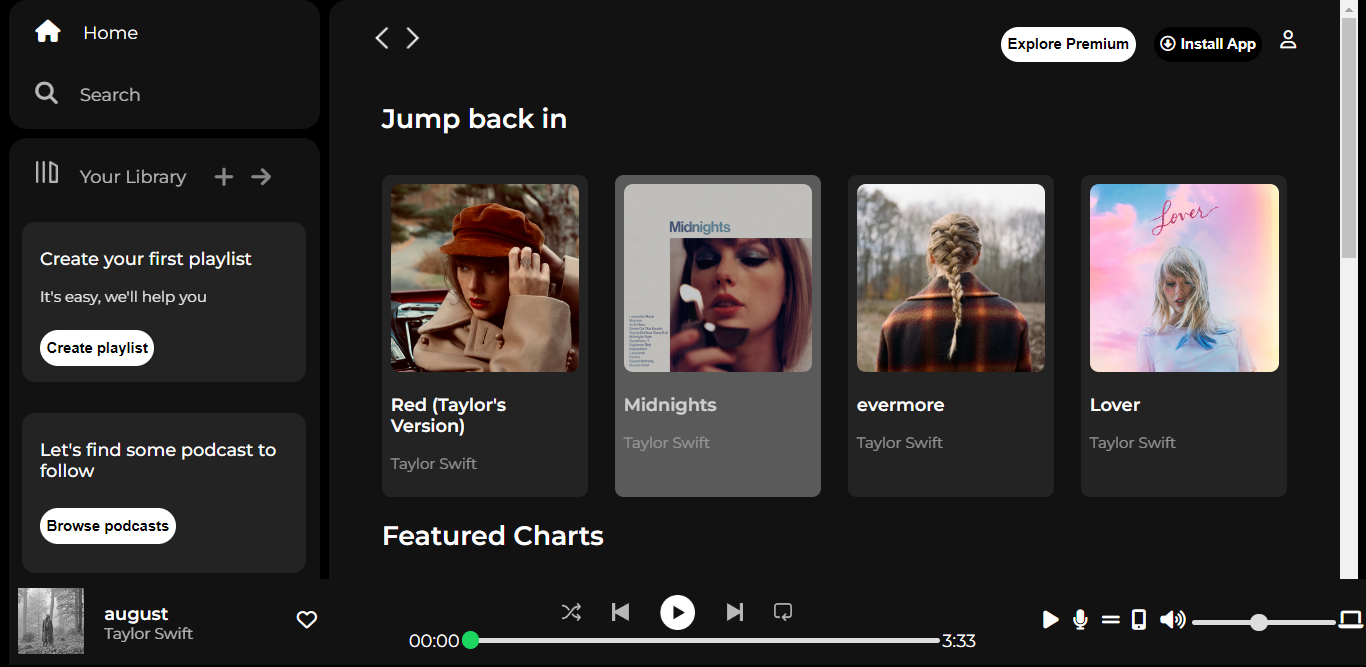
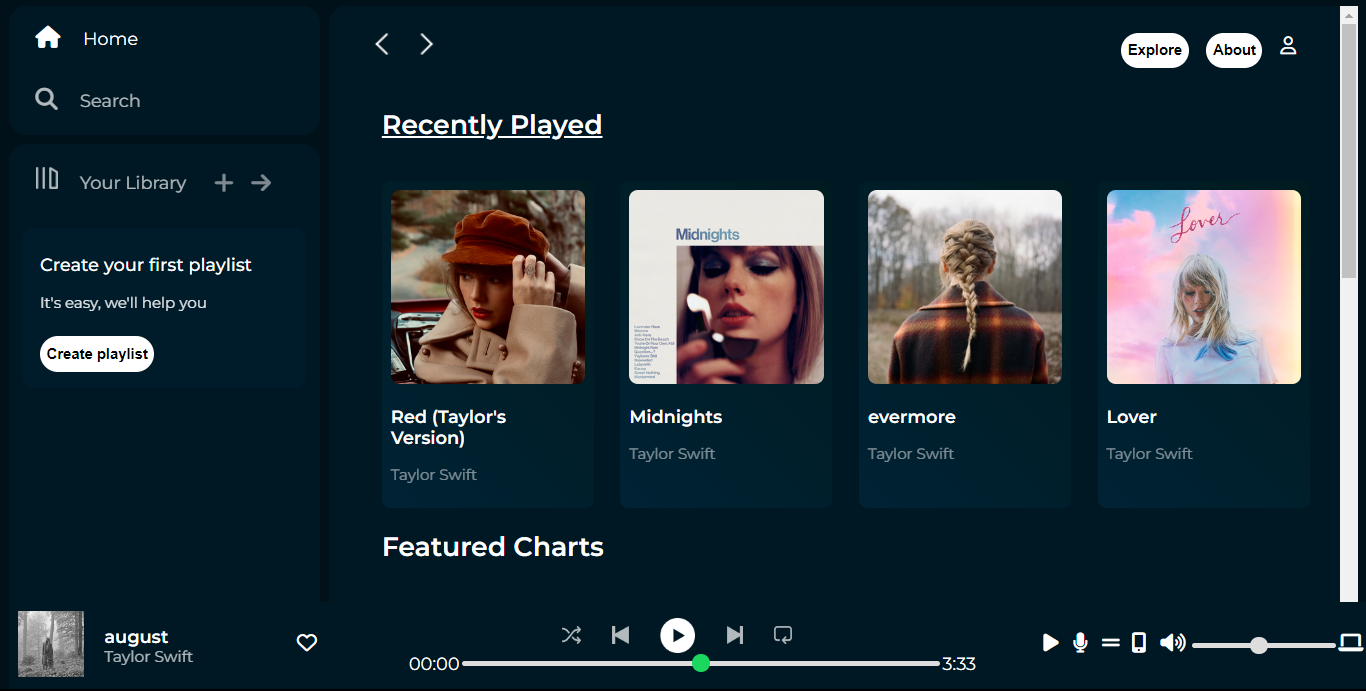
updated screenshots

diff --git a/index.html b/index.html
@@ -4,8 +4,8 @@
     <meta charset="UTF-8">
     <meta name="viewport" content="width=device-width, initial-scale=1.0">
     <link rel="stylesheet" href="https://cdnjs.cloudflare.com/ajax/libs/font-awesome/6.4.2/css/all.min.css" integrity="sha512-z3gLpd7yknf1YoNbCzqRKc4qyor8gaKU1qmn+CShxbuBusANI9QpRohGBreCFkKxLhei6S9CQXFEbbKuqLg0DA==" crossorigin="anonymous" referrerpolicy="no-referrer" />
-    <link rel="icon" href="./assets/logo.png">
-    <title>Spotify - Web Player: Music for everyone</title>
+    <!-- <link rel="icon" href="./assets/logo.png"> -->
+    <title>Swiftify - Web Player for Swifties</title>
     <link rel = "stylesheet" href="style.css">
     <link rel="preconnect" href="https://fonts.googleapis.com">
     <link rel="preconnect" href="https://fonts.gstatic.com" crossorigin>
@@ -41,10 +41,7 @@
                         <p class="box-p2">It's easy, we'll help you</p>
                         <button class="badge">Create playlist</button>
                     </div>
-                    <div class="box">
-                        <p class="box-p1">Let's find some podcast to follow</p>
-                        <button class="badge">Browse podcasts</button>
-                    </div>
+                    
                 </div>
             </div>
         </div>
@@ -52,17 +49,17 @@
         <div class="main-content">
             <div class="sticky-nav">
                 <div class="sticky-nav-icons">
-                    <img src="./assets/backward_icon.png">
+                    <img src="./assets/backward_icon.png"> &nbsp;&nbsp;
                     <img src="./assets/forward_icon.png" class="hide">
                 </div>
                 <div class="sticky-nav-options">
-                    <button class="badge nav-item hide">Explore Premium</button>
-                    <button class="badge nav-item dark-badge"><i class="fa-regular fa-circle-down" style="margin-right: 5px;"></i>Install App</button>
+                    <button class="badge nav-item hide">Explore</button>
+                    <button class="badge nav-item hide">About</button>
                 <i class="fa-regular fa-user nav-item"></i>
                 </div>
             </div> 
 
-                <h2 class="headings"><a href="#">Jump back in</a></h2>
+                <h2 class="headings"><a href="#">Recently Played</a></h2>
                 <div class="cards-container">
                     <div class="card">
                         <img class="card-img" src="./assets/red.jpg" alt="">
@@ -113,7 +110,7 @@
                     </div>
                 </div>
 
-                <h2 class="headings">Recently Played</h2>
+                <h2 class="headings">Made for you</h2>
                 <div class="cards-container">
                     <div class="card">
                         <img class="card-img" src="./assets/passenger.jpg" alt="">

diff --git a/style.css b/style.css
@@ -1,7 +1,7 @@
 body {
     font-family: 'Montserrat', sans-serif;
     margin: 0;
-    background-color: #000;
+    background-color: #00111A;
     color: #fff;
     overflow: hidden;
 }
@@ -13,7 +13,7 @@ body {
 }
 
 .sidebar {
-    background-color: #000;
+    background-color: #00111A;
     width: 280px;
     border-radius: 1rem; /*16px */
     margin-right: 0.5rem;
@@ -21,7 +21,7 @@ body {
 }
 
 .main-content {
-    background-color: #121212;
+    background-color: #001824;
     flex: 1;
     border-radius: 1rem;
     overflow: auto; 
@@ -29,7 +29,7 @@ body {
 }
 
 .music-player {
-    background-color: #121212;
+    background-color: #001824;
     position: fixed;
     bottom: 0;
     width: 100%;
@@ -42,7 +42,7 @@ a {
 }
 
 .nav {
-    background-color: #121212;
+    background-color: #001824;
     border-radius: 1rem;
     display: flex;
     flex-direction: column;
@@ -71,7 +71,7 @@ a {
 }
 
 .library {
-    background-color: #121212;
+    background-color: #001824;
     border-radius: 1rem;
     height: 100%;
     margin-top: 0.5rem;
@@ -115,7 +115,7 @@ a {
 
 .box {
     height: 8rem;
-    background-color: #232323;
+    background-color: #001b29;
     border-radius: 0.75rem;
     margin: 0.75rem 0 1.75rem 0;
     padding: 0.5rem 1rem;
@@ -143,14 +143,14 @@ a {
 }
 
 .dark-badge {
-    background-color: #000;
+    background-color: #00111A;
     color: #fff;
 }
 
 .sticky-nav {
     position: sticky;
     top: 0;
-    background-color: #121212;
+    background-color: #001824;
     display: flex;
     justify-content: space-between;
     align-items: center;
@@ -188,18 +188,19 @@ a {
 }
 
 .card {
-    background-color: #232323;
-    width: 170px;
+    background-color: #001b29;
+    width: 175px;
     border-radius: 0.5rem;
     padding: 0.5rem;
     margin-left: 1.5rem;
     margin-top: 1rem;
     transition: opacity 0.2s ease, background-color 0.2s ease;
+    background: linear-gradient(45deg, #002234, #001b20);
 }
 
 .card:hover {
-    opacity: 0.8;
-    background-color: rgba(211, 211, 211, 0.472);
+    opacity: 0.5;
+    background-color: rgba(211, 211, 211, 0.508);
 }
 
 .cards-container {
